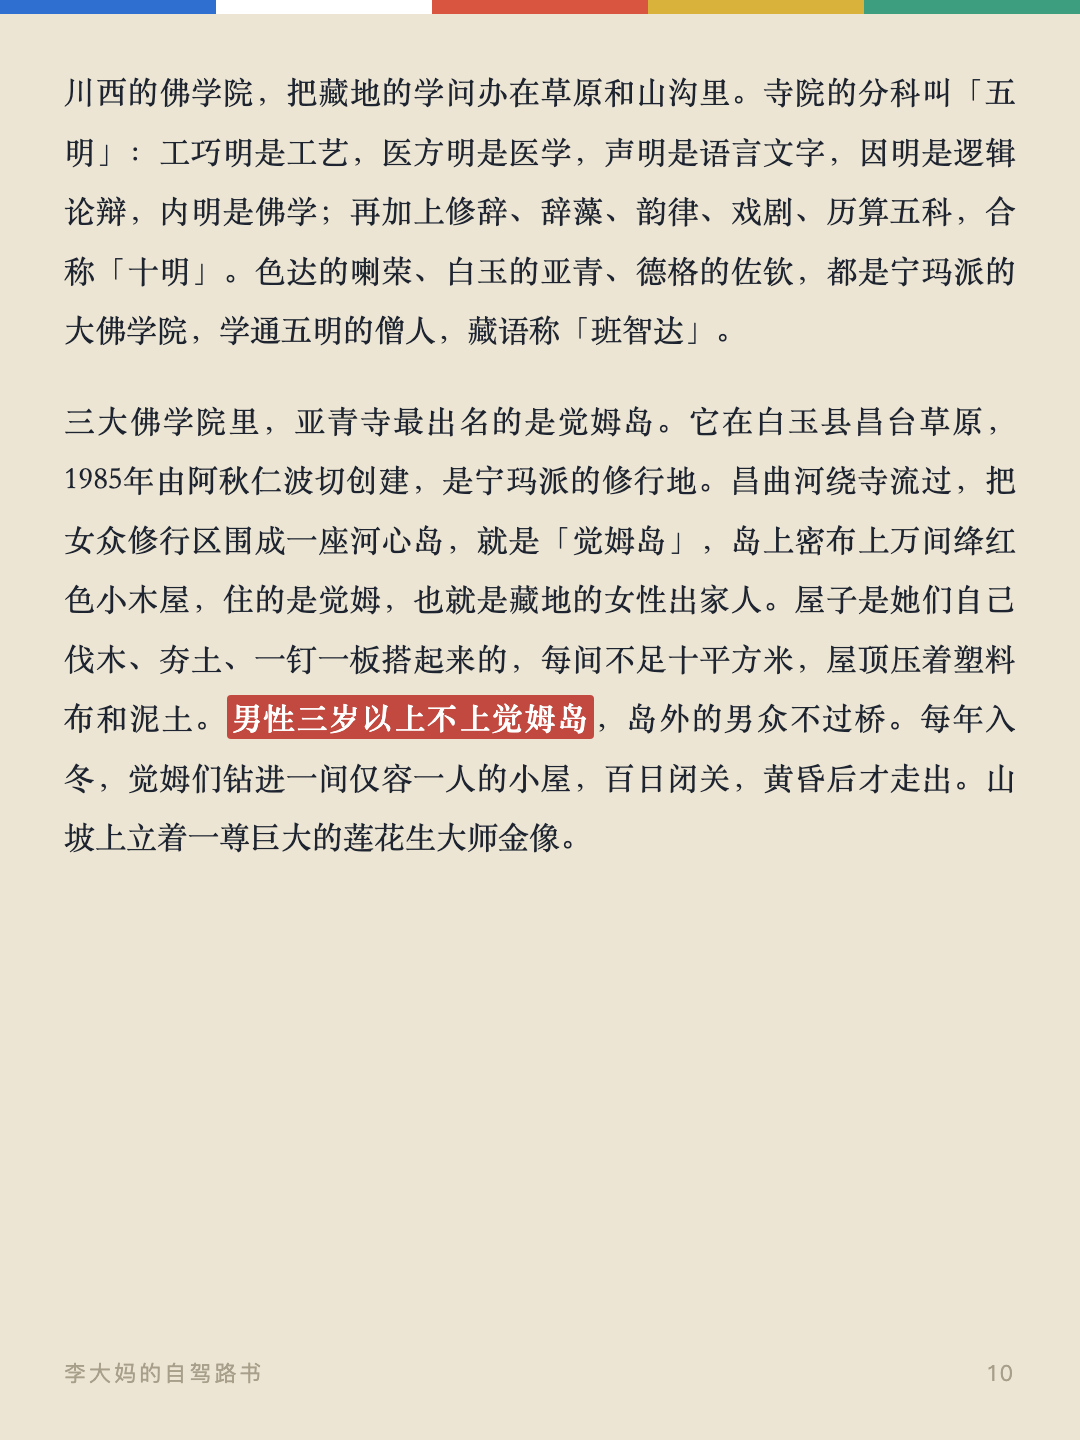
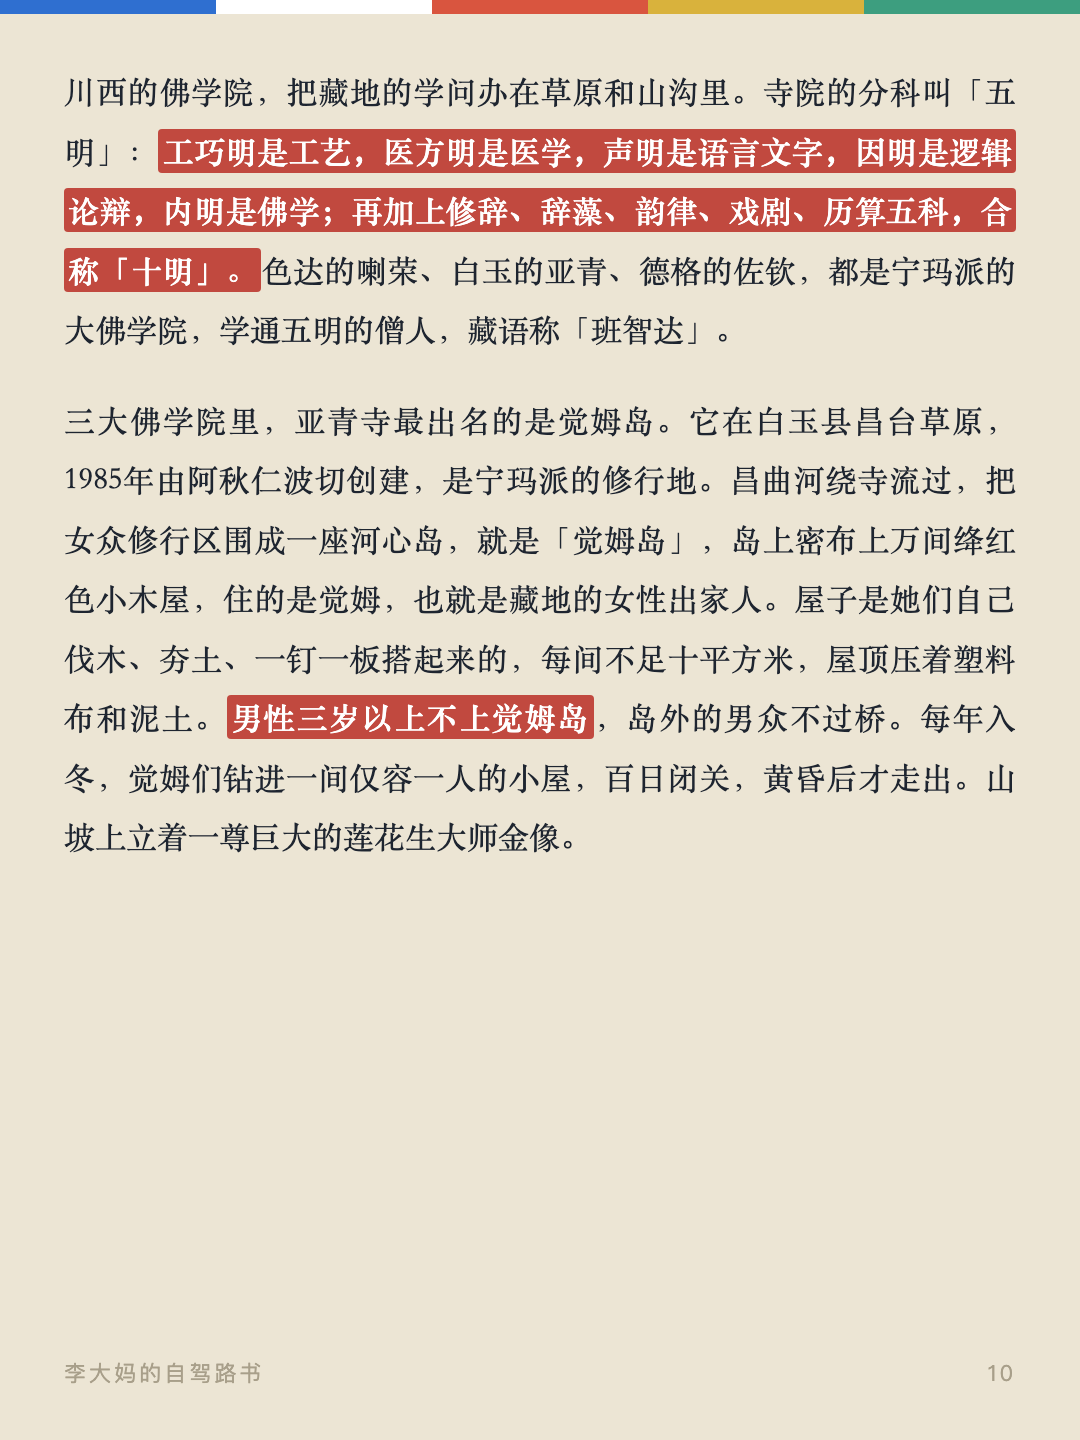
高亮十明分科句

Changed region(s): [[0.0611, 0.0625, 0.9472, 0.2188]]

diff --git a/cards.html b/cards.html
@@ -141,7 +141,7 @@
 
 <div class="card" id="card9"><div class="flag" aria-hidden="true"><span style="background:var(--flag-blue)"></span><span style="background:var(--flag-white)"></span><span style="background:var(--flag-red)"></span><span style="background:var(--flag-yellow)"></span><span style="background:var(--flag-green)"></span></div><div class="card__inner"><p>路边的符号，各有含义。经幡也叫风马旗，五种颜色对应蓝天、白云、红火、江河、大地，挂在山顶风口，<strong>藏人相信风吹动一次等于诵经一次</strong>。玛尼堆是刻了六字真言的石块堆，路人经过会念着真言添一块石头，不搬走当纪念品。白塔源于古印度的覆钵式佛塔，路过捡块石头放上去，或献条哈达许愿。德格佐钦寺的白塔是尼泊尔风格，方形塔顶四面画着佛眼，<strong>和加德满都的博达哈大佛塔同一形制</strong>，博达哈是全世界最大的覆钵塔。转经筒里装着经文，转一圈等于念诵一遍，藏人转经廊、转佛塔、转寺院都是这个逻辑。六字真言「唵嘛呢叭咪吽」是观世音菩萨的总持咒，被看作雪域佛法最根本的念诵。</p><p>和信仰打交道，有几条规矩：<strong>绕行一律顺时针，只有苯教是逆时针</strong>。磕长头是身敬、语敬、意敬三者合一，额头叩地的瞬间，心里同时念咒、观想，这是他们能磕几千公里的原因。煨桑是烧香柏枝，敬献给神佛的香火，也是祈愿的仪式。献哈达要看对象：白色最普遍，黄色献给活佛和高僧，五彩哈达被视为菩萨的衣裳，只在隆重场合用。<strong>哈达只递到对方手里，不能挂脖子上，只有长辈给晚辈才往脖子上搭</strong>。天葬是藏人把遗体布施给神鹰，被认为是最高的舍身布施，<strong>全程严禁围观、拍照，当地有明文规定，连打听都不要</strong>。另有几条硬规矩：<strong>不摸别人的头，佛像、唐卡、经书不指</strong>，非要指就五指并拢、手心朝上，不进人家供奉的佛堂，不取献给塔上的供品，过门槛不踩。</p><div class="card__foot"><span>李大妈的自驾路书</span><span>09</span></div></div></div>
 
-<div class="card" id="card10"><div class="flag" aria-hidden="true"><span style="background:var(--flag-blue)"></span><span style="background:var(--flag-white)"></span><span style="background:var(--flag-red)"></span><span style="background:var(--flag-yellow)"></span><span style="background:var(--flag-green)"></span></div><div class="card__inner"><p>川西的佛学院，把藏地的学问办在草原和山沟里。寺院的分科叫「五明」：工巧明是工艺，医方明是医学，声明是语言文字，因明是逻辑论辩，内明是佛学；再加上修辞、辞藻、韵律、戏剧、历算五科，合称「十明」。色达的喇荣、白玉的亚青、德格的佐钦，都是宁玛派的大佛学院，学通五明的僧人，藏语称「班智达」。</p><p>三大佛学院里，亚青寺最出名的是觉姆岛。它在白玉县昌台草原，1985年由阿秋仁波切创建，是宁玛派的修行地。昌曲河绕寺流过，把女众修行区围成一座河心岛，就是「觉姆岛」，岛上密布上万间绛红色小木屋，住的是觉姆，也就是藏地的女性出家人。屋子是她们自己伐木、夯土、一钉一板搭起来的，每间不足十平方米，屋顶压着塑料布和泥土。<strong>男性三岁以上不上觉姆岛</strong>，岛外的男众不过桥。每年入冬，觉姆们钻进一间仅容一人的小屋，百日闭关，黄昏后才走出。山坡上立着一尊巨大的<span class="nowrap">莲花生大师金像。</span></p><div class="card__foot"><span>李大妈的自驾路书</span><span>10</span></div></div></div>
+<div class="card" id="card10"><div class="flag" aria-hidden="true"><span style="background:var(--flag-blue)"></span><span style="background:var(--flag-white)"></span><span style="background:var(--flag-red)"></span><span style="background:var(--flag-yellow)"></span><span style="background:var(--flag-green)"></span></div><div class="card__inner"><p>川西的佛学院，把藏地的学问办在草原和山沟里。寺院的分科叫「五明」：<strong>工巧明是工艺，医方明是医学，声明是语言文字，因明是逻辑论辩，内明是佛学；再加上修辞、辞藻、韵律、戏剧、历算五科，合称「十明」。</strong>色达的喇荣、白玉的亚青、德格的佐钦，都是宁玛派的大佛学院，学通五明的僧人，藏语称「班智达」。</p><p>三大佛学院里，亚青寺最出名的是觉姆岛。它在白玉县昌台草原，1985年由阿秋仁波切创建，是宁玛派的修行地。昌曲河绕寺流过，把女众修行区围成一座河心岛，就是「觉姆岛」，岛上密布上万间绛红色小木屋，住的是觉姆，也就是藏地的女性出家人。屋子是她们自己伐木、夯土、一钉一板搭起来的，每间不足十平方米，屋顶压着塑料布和泥土。<strong>男性三岁以上不上觉姆岛</strong>，岛外的男众不过桥。每年入冬，觉姆们钻进一间仅容一人的小屋，百日闭关，黄昏后才走出。山坡上立着一尊巨大的<span class="nowrap">莲花生大师金像。</span></p><div class="card__foot"><span>李大妈的自驾路书</span><span>10</span></div></div></div>
 
 <div class="card" id="card11"><div class="flag" aria-hidden="true"><span style="background:var(--flag-blue)"></span><span style="background:var(--flag-white)"></span><span style="background:var(--flag-red)"></span><span style="background:var(--flag-yellow)"></span><span style="background:var(--flag-green)"></span></div><div class="card__inner"><h2>手艺的文明</h2><p class="card__lead">还在挣钱的传承，才是活传承。</p><p>麦宿在德格县金沙江东岸的河谷里，六千多居民有两千多位工匠，分布在三十多个工坊，做十六种手工艺。黑陶、铜铸、唐卡、木雕、藏香、藏纸、藏戏面具、金银加工、牛羊毛编织，被称为「中国藏族传统手工艺之乡」。<strong>它不是摆在展柜里的「非遗秀」</strong>。寺庙要佛像法器，本地人过日子要锅碗和经堂装饰，订单一直不断。麦宿进出不易，外头的东西不好运进来，要用的、要供的都得自己做，手艺就一代代传了下来。最出名的铜铸佛像，老匠人夏雷尼玛的鎏金铜是内地近乎失传的古法，他做的佛像因为工艺古朴精良，常被人冒充古董倒卖，甚至流到了国外。他女儿拍的《麦宿泥塑》纪录片，拿过国际手工艺视频大赛的一等奖。钦乐工坊还在用砂模、失蜡法铸利玛铜。后来县里建了扶贫车间，挂出<strong>「麦宿手造」的品牌</strong>，2024年还到成都开了集市。从一块铜皮到一尊佛像，工坊里能看到整套流程。手工工坊有现货，机压翻模的是仿品。</p><div class="card__foot"><span>李大妈的自驾路书</span><span>11</span></div></div></div>
 

diff --git a/index.html b/index.html
@@ -267,7 +267,7 @@
       <p>最特别的是德格。历代德格土司推行「不分教派、一律扶持」的政策，硬是把五大教派全留在自家地盘上，这在藏区很少见，<strong>德格也因此成了藏文化的三大中心之一</strong>。</p>
       <p>路边的符号，各有含义。经幡也叫风马旗，五种颜色对应蓝天、白云、红火、江河、大地，挂在山顶风口，<strong>藏人相信风吹动一次等于诵经一次</strong>。玛尼堆是刻了六字真言的石块堆，路人经过会念着真言添一块石头，不搬走当纪念品。白塔源于古印度的覆钵式佛塔，路过捡块石头放上去，或献条哈达许愿。德格佐钦寺的白塔是尼泊尔风格，方形塔顶四面画着佛眼，<strong>和加德满都的博达哈大佛塔同一形制</strong>，博达哈是全世界最大的覆钵塔。转经筒里装着经文，转一圈等于念诵一遍，藏人转经廊、转佛塔、转寺院都是这个逻辑。六字真言「唵嘛呢叭咪吽」是观世音菩萨的总持咒，被看作雪域佛法最根本的念诵。</p>
       <p>和信仰打交道，有几条规矩：<strong>绕行一律顺时针，只有苯教是逆时针</strong>。磕长头是身敬、语敬、意敬三者合一，额头叩地的瞬间，心里同时念咒、观想，这是他们能磕几千公里的原因。煨桑是烧香柏枝，敬献给神佛的香火，也是祈愿的仪式。献哈达要看对象：白色最普遍，黄色献给活佛和高僧，五彩哈达被视为菩萨的衣裳，只在隆重场合用。<strong>哈达只递到对方手里，不能挂脖子上，只有长辈给晚辈才往脖子上搭</strong>。天葬是藏人把遗体布施给神鹰，被认为是最高的舍身布施，<strong>全程严禁围观、拍照，当地有明文规定，连打听都不要</strong>。另有几条硬规矩：<strong>不摸别人的头，佛像、唐卡、经书不指</strong>，非要指就五指并拢、手心朝上，不进人家供奉的佛堂，不取献给塔上的供品，过门槛不踩。</p>
-      <p>川西的佛学院，把藏地的学问办在草原和山沟里。寺院的分科叫「五明」：工巧明是工艺，医方明是医学，声明是语言文字，因明是逻辑论辩，内明是佛学；再加上修辞、辞藻、韵律、戏剧、历算五科，合称「十明」。色达的喇荣、白玉的亚青、德格的佐钦，都是宁玛派的大佛学院，学通五明的僧人，藏语称「班智达」。</p>
+      <p>川西的佛学院，把藏地的学问办在草原和山沟里。寺院的分科叫「五明」：<strong>工巧明是工艺，医方明是医学，声明是语言文字，因明是逻辑论辩，内明是佛学；再加上修辞、辞藻、韵律、戏剧、历算五科，合称「十明」。</strong>色达的喇荣、白玉的亚青、德格的佐钦，都是宁玛派的大佛学院，学通五明的僧人，藏语称「班智达」。</p>
       <p>三大佛学院里，亚青寺最出名的是觉姆岛。它在白玉县昌台草原，1985年由阿秋仁波切创建，是宁玛派的修行地。昌曲河绕寺流过，把女众修行区围成一座河心岛，就是「觉姆岛」，岛上密布上万间绛红色小木屋，住的是觉姆，也就是藏地的女性出家人。屋子是她们自己伐木、夯土、一钉一板搭起来的，每间不足十平方米，屋顶压着塑料布和泥土。<strong>男性三岁以上不上觉姆岛</strong>，岛外的男众不过桥。每年入冬，觉姆们钻进一间仅容一人的小屋，百日闭关，黄昏后才走出。山坡上立着一尊巨大的莲花生大师金像。</p>
     </section>
 

diff --git a/gen_cards.py b/gen_cards.py
@@ -65,7 +65,7 @@ BODY_STREAM = [
   ('p', '最特别的是德格。历代德格土司推行「不分教派、一律扶持」的政策，硬是把五大教派全留在自家地盘上，这在藏区很少见，<strong>德格也因此成了藏文化的三大中心之一</strong>。'),
   ('p', '路边的符号，各有含义。经幡也叫风马旗，五种颜色对应蓝天、白云、红火、江河、大地，挂在山顶风口，<strong>藏人相信风吹动一次等于诵经一次</strong>。玛尼堆是刻了六字真言的石块堆，路人经过会念着真言添一块石头，不搬走当纪念品。白塔源于古印度的覆钵式佛塔，路过捡块石头放上去，或献条哈达许愿。德格佐钦寺的白塔是尼泊尔风格，方形塔顶四面画着佛眼，<strong>和加德满都的博达哈大佛塔同一形制</strong>，博达哈是全世界最大的覆钵塔。转经筒里装着经文，转一圈等于念诵一遍，藏人转经廊、转佛塔、转寺院都是这个逻辑。六字真言「唵嘛呢叭咪吽」是观世音菩萨的总持咒，被看作雪域佛法最根本的念诵。'),
   ('p', '和信仰打交道，有几条规矩：<strong>绕行一律顺时针，只有苯教是逆时针</strong>。磕长头是身敬、语敬、意敬三者合一，额头叩地的瞬间，心里同时念咒、观想，这是他们能磕几千公里的原因。煨桑是烧香柏枝，敬献给神佛的香火，也是祈愿的仪式。献哈达要看对象：白色最普遍，黄色献给活佛和高僧，五彩哈达被视为菩萨的衣裳，只在隆重场合用。<strong>哈达只递到对方手里，不能挂脖子上，只有长辈给晚辈才往脖子上搭</strong>。天葬是藏人把遗体布施给神鹰，被认为是最高的舍身布施，<strong>全程严禁围观、拍照，当地有明文规定，连打听都不要</strong>。另有几条硬规矩：<strong>不摸别人的头，佛像、唐卡、经书不指</strong>，非要指就五指并拢、手心朝上，不进人家供奉的佛堂，不取献给塔上的供品，过门槛不踩。'),
-  ('p', '川西的佛学院，把藏地的学问办在草原和山沟里。寺院的分科叫「五明」：工巧明是工艺，医方明是医学，声明是语言文字，因明是逻辑论辩，内明是佛学；再加上修辞、辞藻、韵律、戏剧、历算五科，合称「十明」。色达的喇荣、白玉的亚青、德格的佐钦，都是宁玛派的大佛学院，学通五明的僧人，藏语称「班智达」。'),
+  ('p', '川西的佛学院，把藏地的学问办在草原和山沟里。寺院的分科叫「五明」：<strong>工巧明是工艺，医方明是医学，声明是语言文字，因明是逻辑论辩，内明是佛学；再加上修辞、辞藻、韵律、戏剧、历算五科，合称「十明」。</strong>色达的喇荣、白玉的亚青、德格的佐钦，都是宁玛派的大佛学院，学通五明的僧人，藏语称「班智达」。'),
   ('p', '三大佛学院里，亚青寺最出名的是觉姆岛。它在白玉县昌台草原，1985年由阿秋仁波切创建，是宁玛派的修行地。昌曲河绕寺流过，把女众修行区围成一座河心岛，就是「觉姆岛」，岛上密布上万间绛红色小木屋，住的是觉姆，也就是藏地的女性出家人。屋子是她们自己伐木、夯土、一钉一板搭起来的，每间不足十平方米，屋顶压着塑料布和泥土。<strong>男性三岁以上不上觉姆岛</strong>，岛外的男众不过桥。每年入冬，觉姆们钻进一间仅容一人的小屋，百日闭关，黄昏后才走出。山坡上立着一尊巨大的<span class="nowrap">莲花生大师金像。</span>'),
   ('h2', '手艺的文明'),
   ('lead', '还在挣钱的传承，才是活传承。'),
